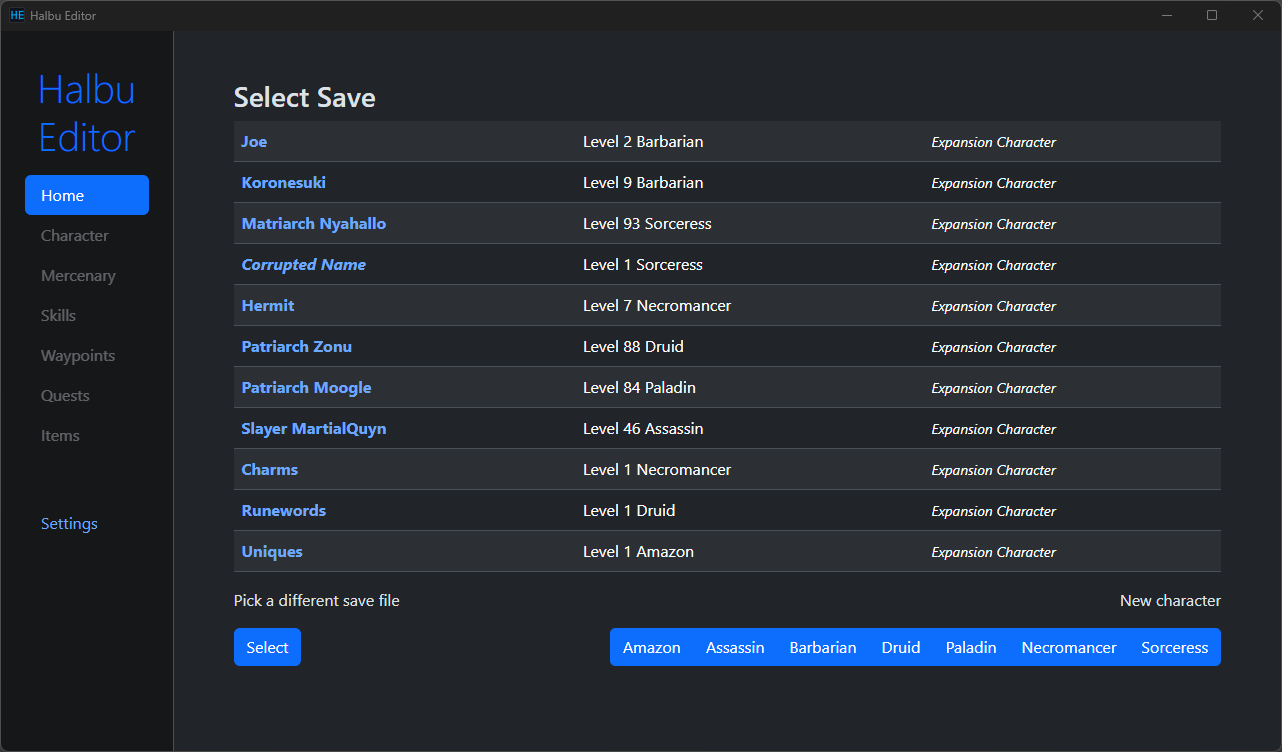
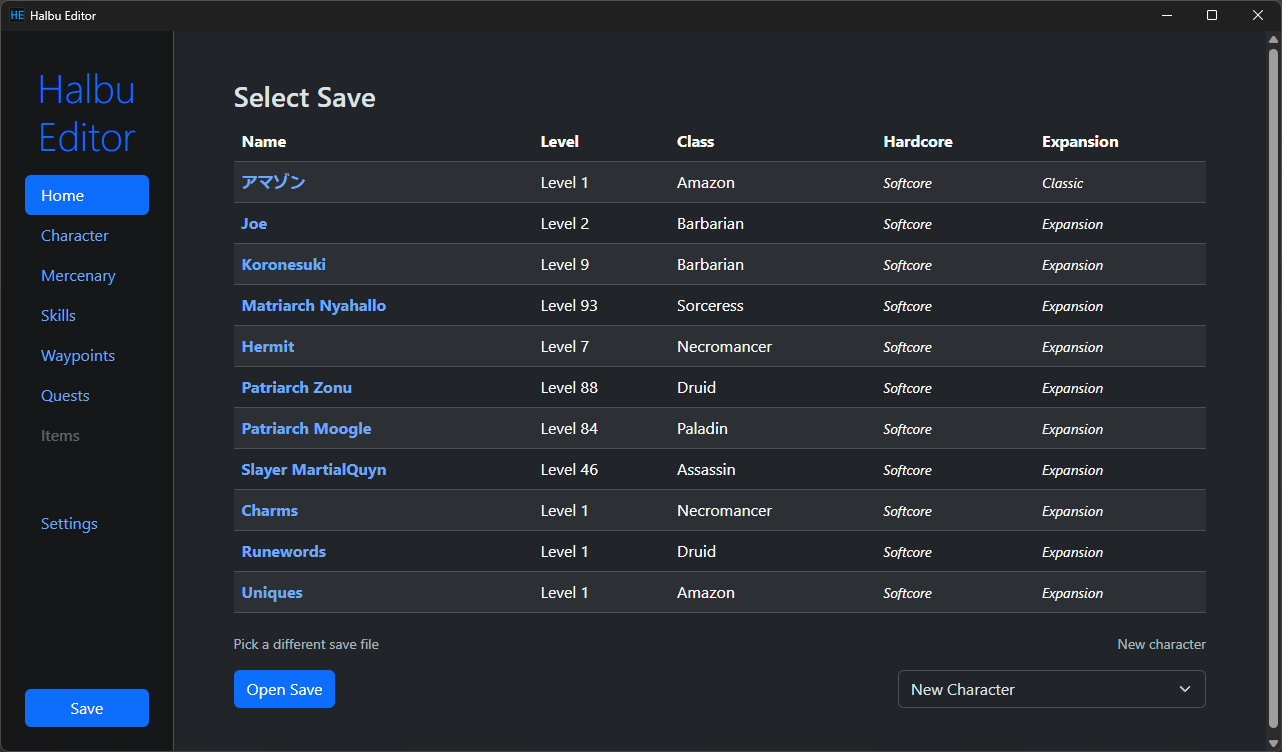
Bump up version number, new home screenshots and more complete readme.

diff --git a/README.md b/README.md
@@ -1,10 +1,10 @@
 
 ### Halbu Editor
 
-<img src="static/screenshots/home.png" width="75%" />
+<img src="static/screenshots/home.png" />
 <p float="left">
-  <img src="static/screenshots/character.png" width="40%" /> 
-  <img src="static/screenshots/skills.png" width="40%" />
+  <img src="static/screenshots/character.png" width="50%" /> 
+  <img src="static/screenshots/skills.png" width="50%" />
 </p>
 
 
@@ -12,7 +12,7 @@
 
 ###  About
 
-A save editor for Diablo II: Resurrected.
+This is a save editor for Diablo II: Resurrected. Originally just a way to lean Rust. The goal is to have a native hero editor for D2R that's easy to use, up to date with the latest patches, includes a skill calculator and does not use copyrighted assets (no exocet font, game icons, etc).
 
 #### Features
 
@@ -20,12 +20,12 @@ A save editor for Diablo II: Resurrected.
 * Skill calculator built-in
 * Granular quest edition (down to each quest flag, including unused quests)
 * Create a new character from within the editor
-* Easy access to all characters from home page (see window above, must set save folder)
+* Easy access to all characters from home page (must set save folder)
 * Clean UI with light/dark theme
 
 #### Drawbacks
 * Only supports the latest version of D2R (2.7). (Will probably successfully parse 1.10+ D2, but it will save in D2R format so **do not overwrite your non-D2R saves**.)
-* Items are not supported yet
+* Item parsing/editing not supported yet (next on the roadmap)
 * Skill calculator does not support some minions skills (mainly necromancer skeletons/golems) and may contain rounding errors
 * D2R will need to be launched again after saving a file for changes to take effect.
 
